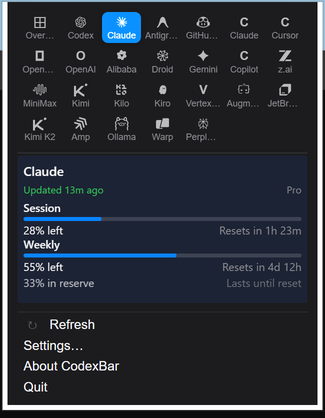
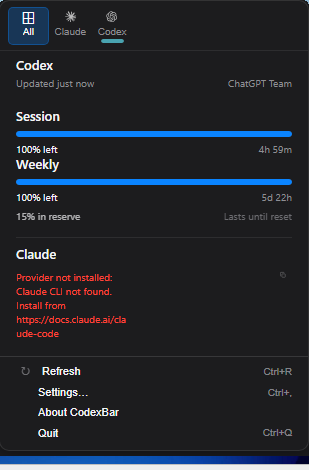
Fresh VPS screenshots for README
- Tray panel: live Codex usage with provider grid
- Settings: Providers tab with sidebar and detail pane
- Cropped taskbar from settings capture

Changed region(s): [[0.0, 0.0, 1.0, 1.0], [0.7282, 0.4354, 0.7864, 0.4665]]

diff --git a/README.md b/README.md
@@ -7,7 +7,9 @@ The Windows port of [CodexBar](https://github.com/steipete/CodexBar) — a syste
 > Built with **Tauri + React** on a shared **Rust** backend. The original CodexBar is a macOS Swift app by [Peter Steinberger](https://github.com/steipete).
 
 <p align="center">
-  <img src="extra-docs/images/tray-panel.png" width="310" alt="Tray panel showing provider grid and Claude usage"/>
+  <img src="extra-docs/images/tray-panel.png" width="280" alt="Tray panel showing provider grid and Codex usage"/>
+  &nbsp;&nbsp;
+  <img src="extra-docs/images/settings-providers.png" width="480" alt="Settings — Providers tab"/>
 </p>
 
 ## Features

diff --git a/README.zh-CN.md b/README.zh-CN.md
@@ -7,7 +7,9 @@
 > 基于 **Tauri + React** 构建，底层复用共享 **Rust** 后端。原版 CodexBar 是由 [Peter Steinberger](https://github.com/steipete) 开发的 macOS Swift 应用。
 
 <p align="center">
-  <img src="extra-docs/images/tray-panel.png" width="310" alt="托盘面板 — 服务商网格与 Claude 用量"/>
+  <img src="extra-docs/images/tray-panel.png" width="280" alt="托盘面板 — 服务商网格与 Codex 用量"/>
+  &nbsp;&nbsp;
+  <img src="extra-docs/images/settings-providers.png" width="480" alt="设置 — 服务商选项卡"/>
 </p>
 
 ## 功能特性
